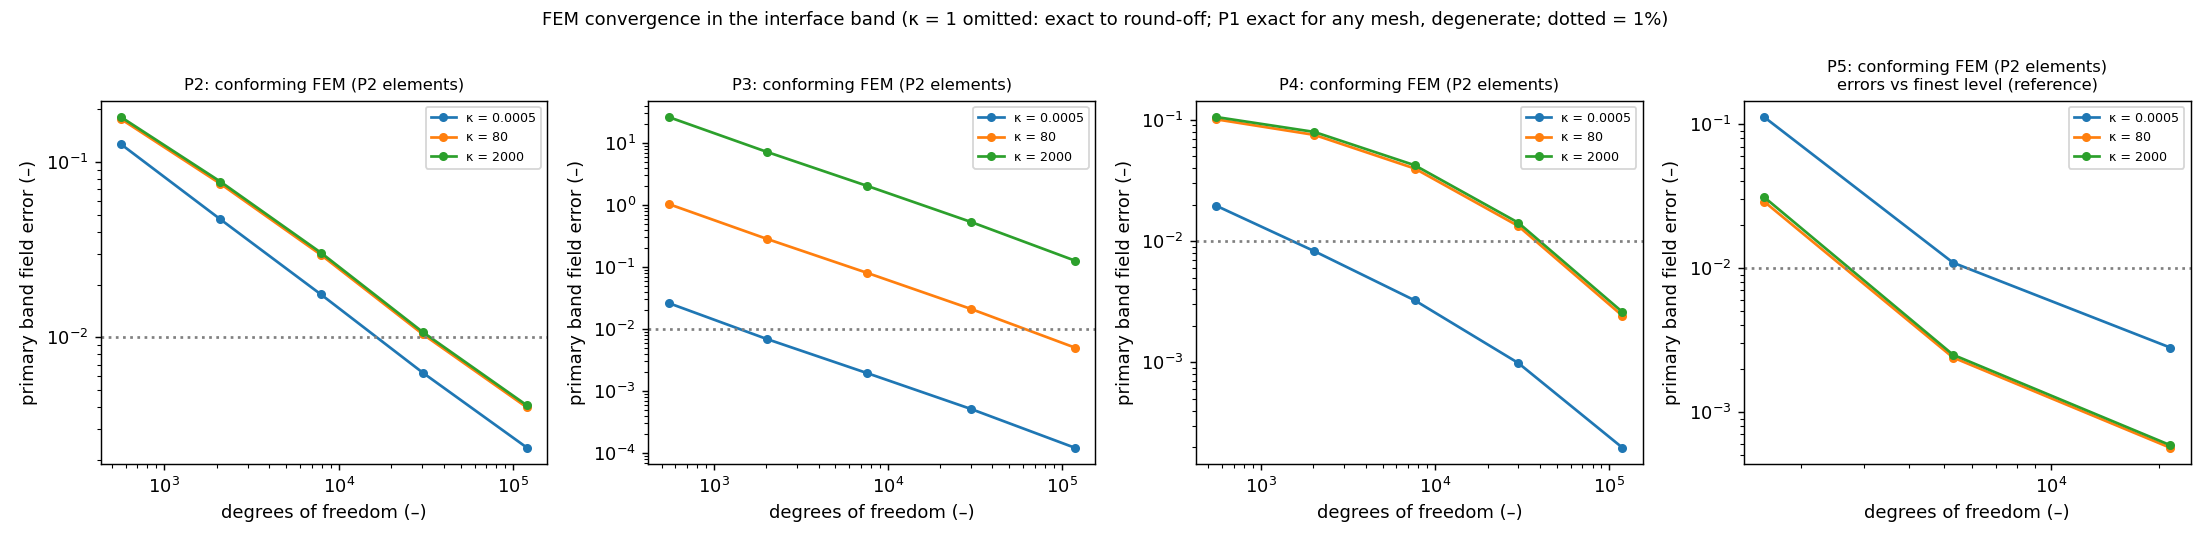
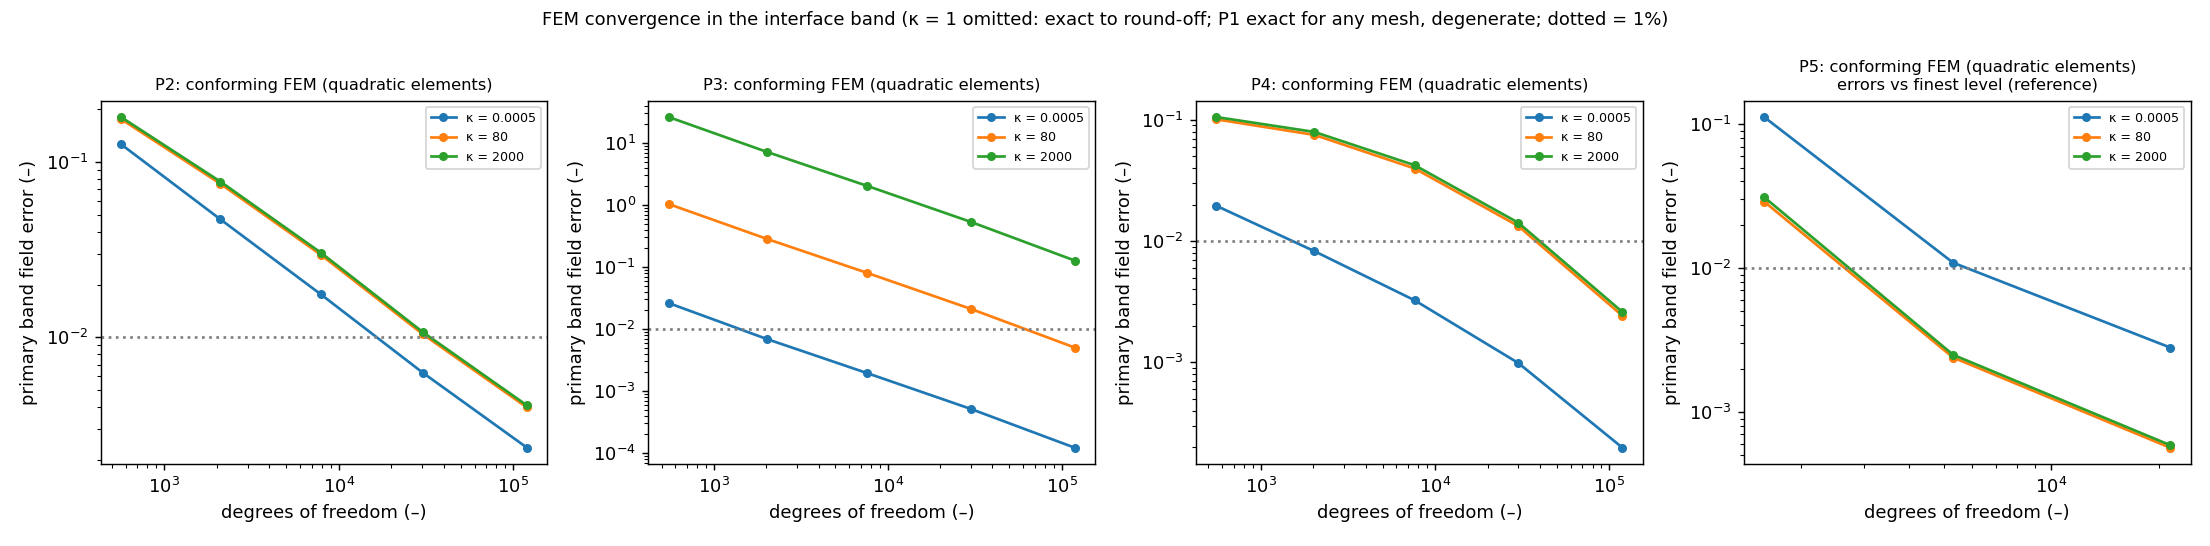
make_all verified against committed outputs; p2 FEM filter bug fixed; deterministic key order

diff --git a/src/analysis/interventions.py b/src/analysis/interventions.py
@@ -182,7 +182,7 @@ def verdicts(P, FC, PT):
         g = P[(P.intervention == iv) & P.prespecified]
         vs = g.verdict.tolist()
         overall = "supported" if all(v == "supported" for v in vs) else "refuted" if all(v == "refuted" for v in vs) else "mixed"
-        V[f"H5_{iv}"] = dict(overall=overall, n_configs=len(vs), counts={v: vs.count(v) for v in set(vs)},
+        V[f"H5_{iv}"] = dict(overall=overall, n_configs=len(vs), counts={v: vs.count(v) for v in sorted(set(vs))},
                              per_config=[dict(comparison=r.comparison, kappa=r.kappa, n_pred=r.n_pred_sign, n_opp=r.n_opposite,
                                               p=r.p_sign_one_sided, p_holm=r.p_holm_within_intervention, verdict=r.verdict)
                                          for r in g.itertuples()])

diff --git a/src/analysis/p2_summary.py b/src/analysis/p2_summary.py
@@ -32,7 +32,8 @@ def loss_visibility():
 
 def fem_records():
     out = ROOT / "results/raw/fem_runs_2d.csv"
-    if out.exists(): return pd.read_csv(out)
+    if out.exists():
+        f = pd.read_csv(out); return f[f.problem_id == "P2"]      # bug fix 2026-10-16: file also holds P3-P5 rows
     from src.problems.p2d import P2Cylinder
     from src.fem import fem2d
     from src.evaluator.evaluator2d import evaluate

diff --git a/tests/test_analysis_pipeline.py b/tests/test_analysis_pipeline.py
@@ -1,0 +1,8 @@
+"""Phase 14: analysis-pipeline regression tests."""
+from src.analysis import p2_summary
+
+
+def test_p2_fem_records_only_p2():
+    """Regression (bug 2026-10-16): fem_runs_2d.csv holds P2-P5; the P2 summary must use P2 rows only."""
+    f = p2_summary.fem_records()
+    assert set(f.problem_id) == {"P2"} and len(f[(f.kappa == 80) & f.conforming]) == 5

diff --git a/docs/protocol_change_log.md b/docs/protocol_change_log.md
@@ -136,3 +136,9 @@ All decisions below were written and committed before any Phase 11 training run.
 | 2026-10-16 | 1.6.0 | H7 rule | Configuration = (problem, formulation and variant [base, R_lbfgs, R_adam20k], kappa). Clause 1 holds if PINN median t_1% is inf, or >= 10 x FEM t_1%. Clause 2 holds if FEM error at the conforming mesh whose mesh_plus_solve_s is closest (in log) to the PINN median wall_clock_s is lower than the PINN median final primary error. Supported if both clauses hold in every configuration; refuted if any configuration has a finite PINN median t_1% < 10 x FEM t_1%; otherwise inconclusive. kappa = 1 is reported but flagged: FEM is exact to round-off there (degenerate, like P1) | protocol H7 | H7 | - |
 | 2026-10-16 | 1.6.0 | Timing context | All times: time.perf_counter, single-threaded CPU sandbox (hardware string per row). PINN (JAX, AOT-compiled) and FEM (gmsh + scikit-fem + sparse direct solve) have different computational structures; equal gradient evaluations do not imply equal wall-clock. P2 and P5 FEM rows were timed on different CPU models (2.10 GHz and 2.80 GHz Xeon) - reported | protocol Sec. 12 | H7 | - |
 | 2026-10-16 | 1.6.0 | H7 time-to-target resolution (analysis addition, made after a trial run of the analysis on partial data, before the final verdict) | PINN errors are logged every 250 steps, so a first-hit time is an UPPER bound; the true time lies between the previous record and the first hit. The frozen rule is applied unchanged to the upper bound; in addition each configuration reports the lower bound and whether clause 1 also holds there ("resolution-safe"). If clause 1 holds only at the upper bound in some configuration, the verdict is reported as "supported at logging resolution" and those configurations are named. This is stricter, never more lenient, than the frozen rule | at kappa = 1 several PINNs reach 1% at the first logged record (step 250), where the 10x margin cannot be resolved | H7 | none |
+
+## Phase 14 entries
+| Date | Version | Change | Reason | Affected | Reruns |
+|---|---|---|---|---|---|
+| 2026-10-16 | 1.6.0 | BUG (analysis code, found by the make_all reproducibility check): src/analysis/p2_summary.fem_records() read results/raw/fem_runs_2d.csv without filtering problem_id. When Phase 7 ran the file held only P2 rows, so the committed Phase 7 outputs were correct; after Phases 8-10 appended P3-P5 rows, a rerun would mix them into p2_results.json (fem_conforming_kappa80: 19 rows instead of 5) and into p2_fem_convergence.png. FIX: filter problem_id == "P2". REGRESSION TEST: tests/test_analysis_pipeline.py. Other modules checked: summary2d.fem_rows and remedy_vs_fem filter by problem; final_figures selects per problem | reproducibility | P2 summary outputs on regeneration only | regenerate (no training) |
+| 2026-10-16 | 1.6.0 | Regeneration differences | make_all reproduces all committed processed numbers; the only other differences are last-digit float formatting (values read back from CSV instead of in-memory; relative change < 1e-15) | CSV round trip | none | none |
